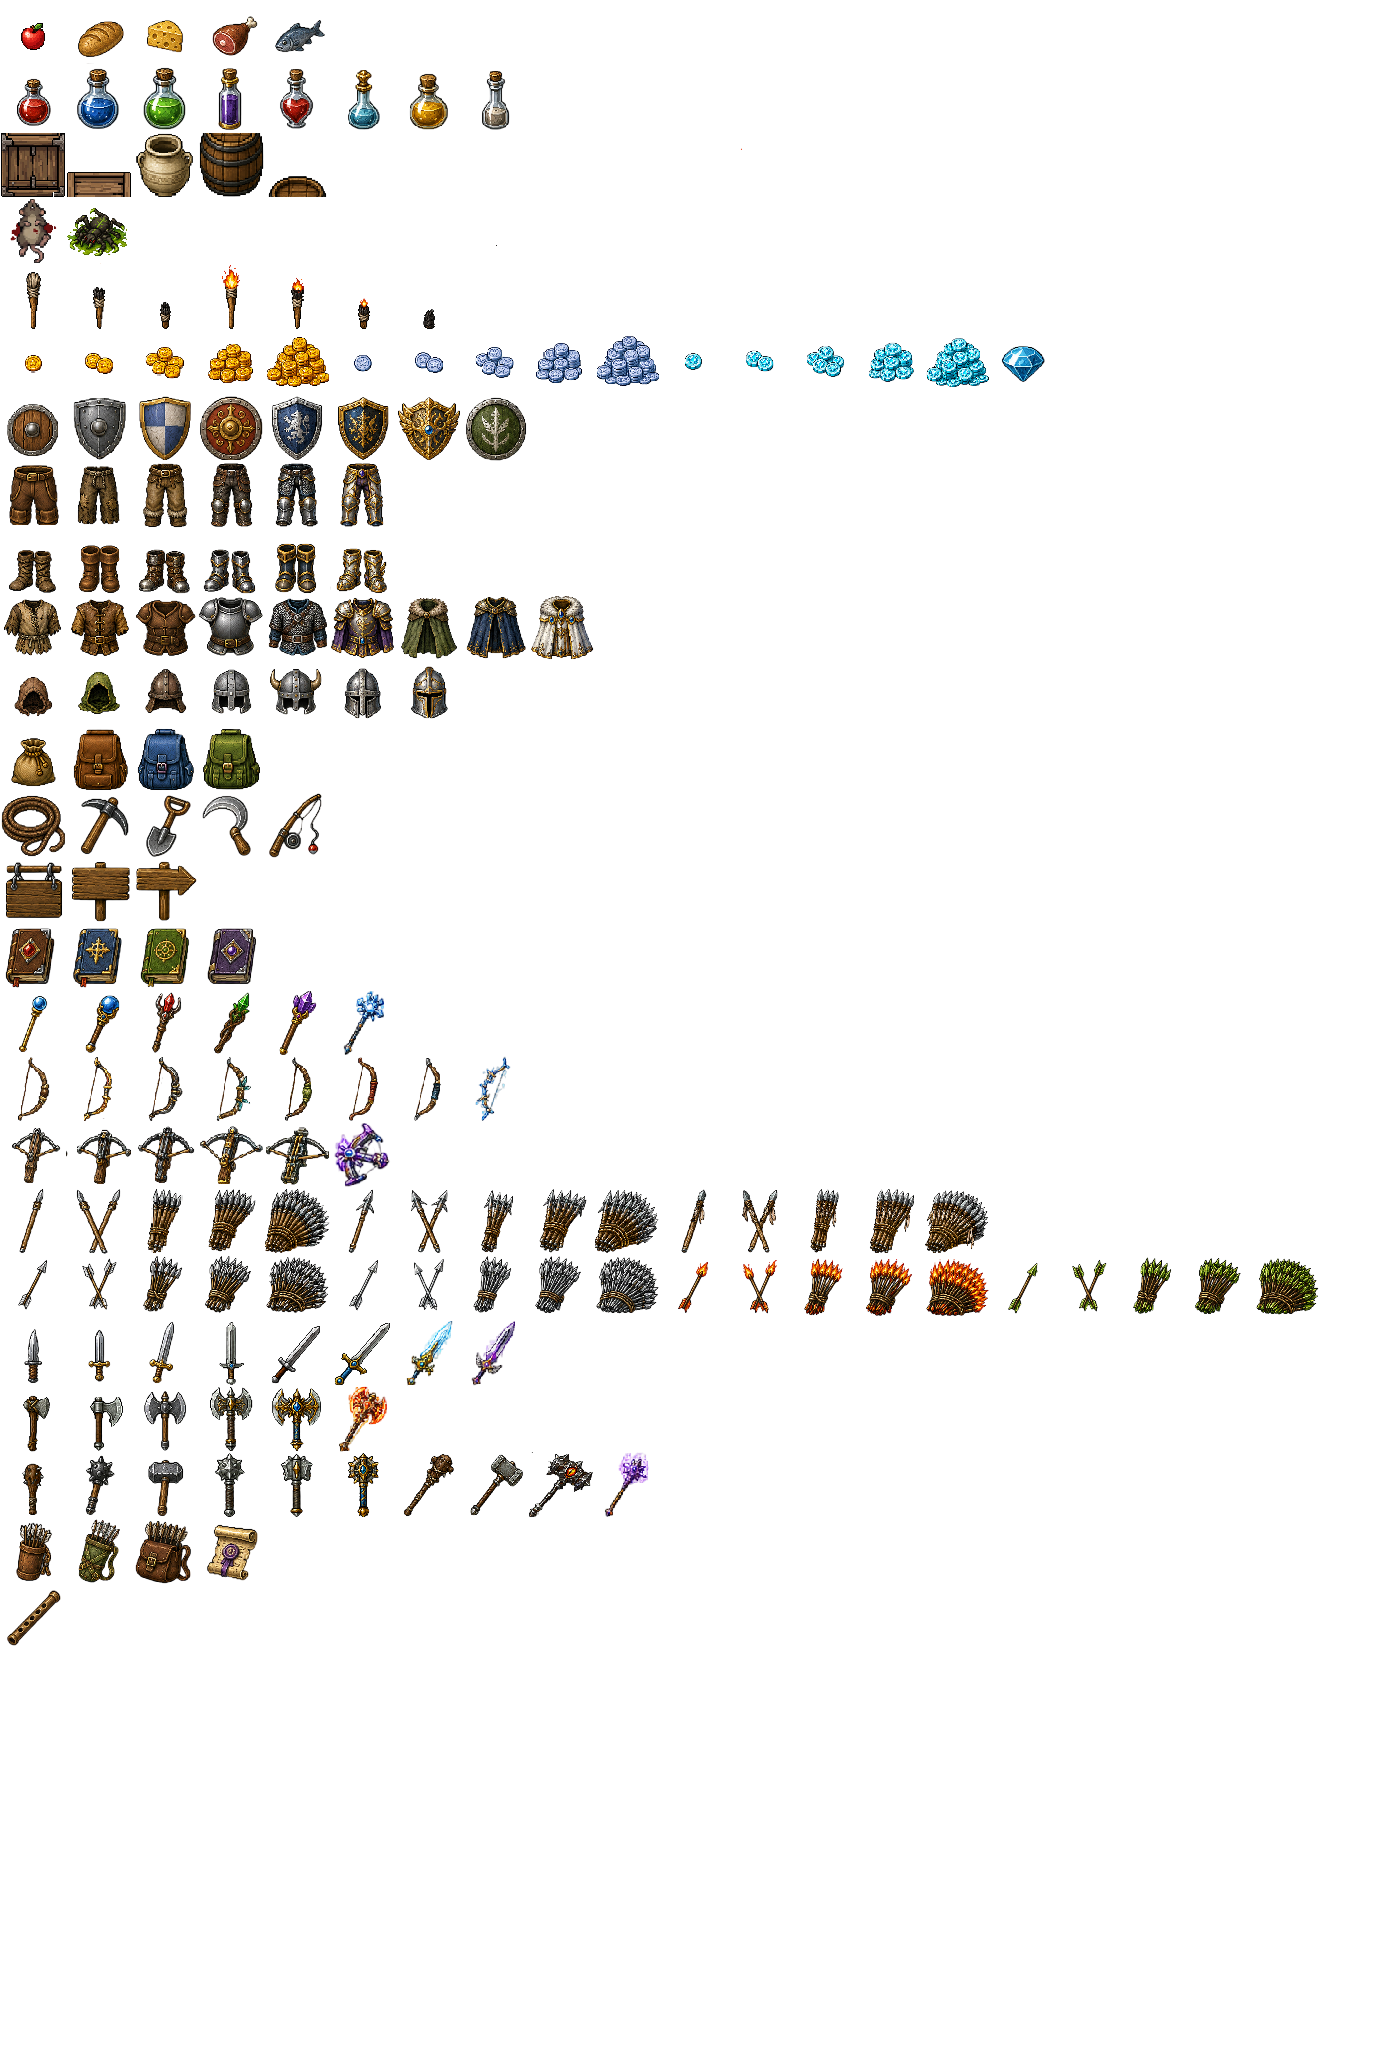
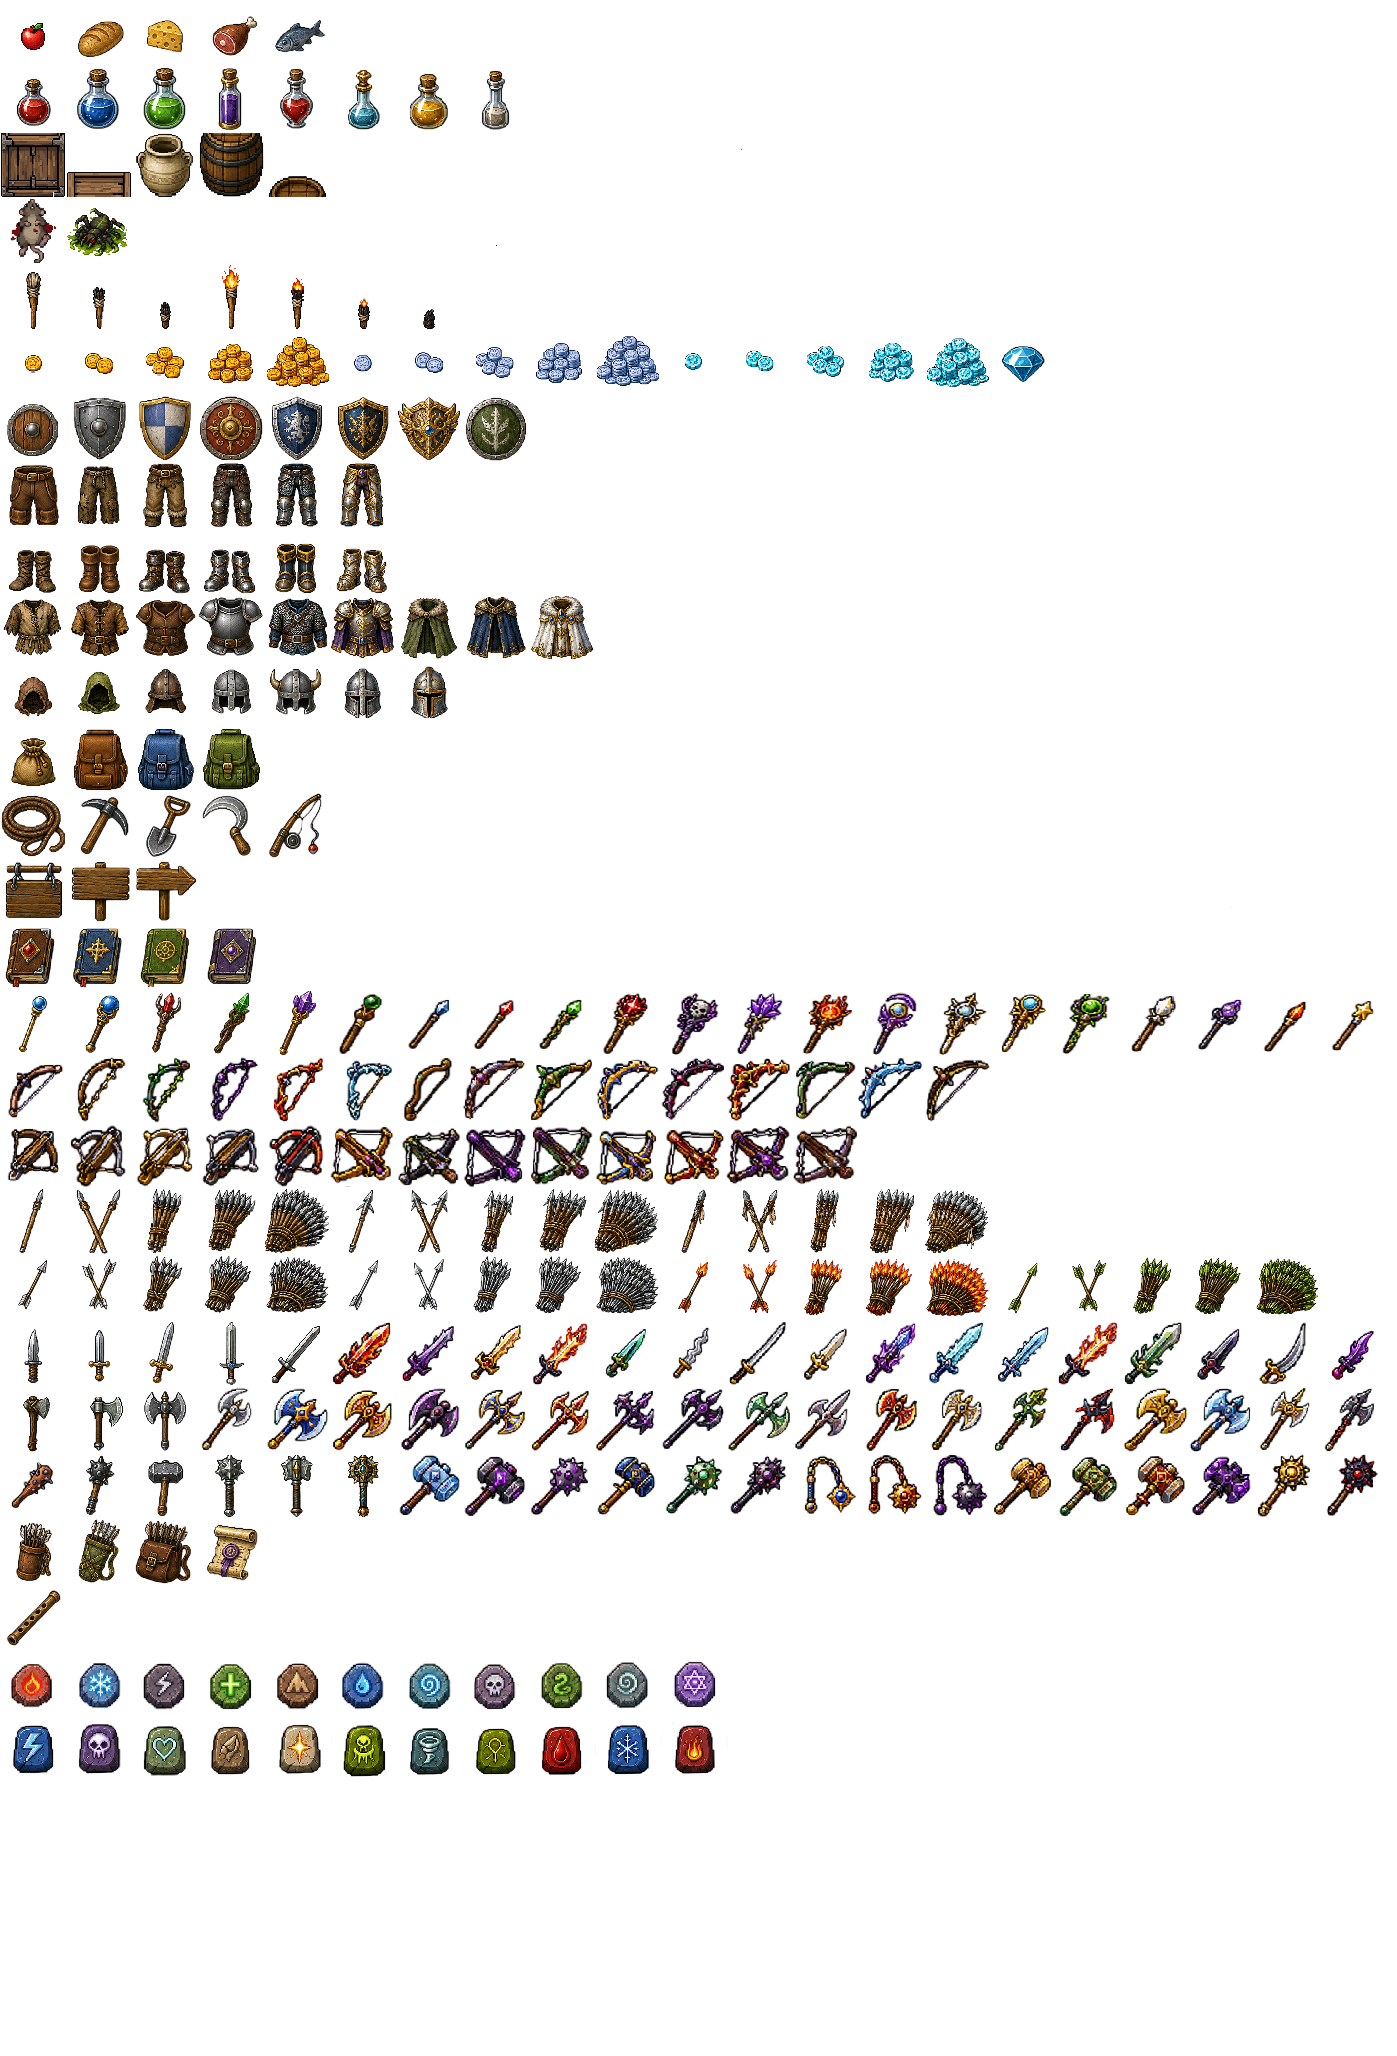
0.2936

diff --git a/js/main.js b/js/main.js
@@ -79,6 +79,14 @@ const mousePosition = {
   col: null,
   isInsideMap: false,
 };
+
+const itemUseState = {
+  isUsingItem: false,
+  source: null,
+  item: null,
+  useData: null,
+  startedAt: null,
+};
 //#endregion  -----  BASE - CONSTANTES ET VARIABLES  -----
 
 /* ==================================================== */
@@ -94,6 +102,10 @@ const itemsDatabase = {
     weight: 10,
     stackable: false,
     blockMovement: false,
+    use: {
+      mode: "direct",
+      action: "eat",
+    },
     render: {
       atlas: "items",
       parts: [
@@ -156,6 +168,12 @@ const itemsDatabase = {
           zOffset: 0,
         },
       ],
+    },
+    use: {
+      mode: "target",
+      action: "drinkPotion",
+      allowedTargets: ["player", "tile"],
+      range: 7,
     },
   },
   ratCorpse: {
@@ -329,6 +347,28 @@ const itemsDatabase = {
         {
           atlasCol: 0,
           atlasRow: 5,
+          offsetX: 0,
+          offsetY: 0,
+          zOffset: 0,
+        },
+      ],
+    },
+  },
+  fireRune: {
+    itemId: "fireRune",
+    name: "Fire rune",
+    desc: "A rune engraved with fire magic, ready to unleash a burning spell.",
+    type: "rune",
+    suffix: "a",
+    weight: 5,
+    stackable: false,
+    blockMovement: false,
+    render: {
+      atlas: "items",
+      parts: [
+        {
+          atlasCol: 0,
+          atlasRow: 25,
           offsetX: 0,
           offsetY: 0,
           zOffset: 0,
@@ -887,6 +927,14 @@ const getItemData = (itemId) => {
     console.log(`itemId: ${itemId} n'existe pas dans itemsDatabase`);
     return null;
   }
+};
+
+const getItemUseData = (item) => {
+  const itemData = getItemData(item.itemId);
+  if (!itemData || !itemData.use) {
+    return null;
+  }
+  return itemData.use;
 };
 
 /* ---------- ITEMS - VALIDATION GAMEPLAY ---------- */
@@ -2029,12 +2077,7 @@ const renderEquipmentSlots = () => {
     if (item) {
       equipmentElement.classList.add("equipment-slot-filled");
       equipmentElement.classList.remove("equipment-slot-empty");
-    }
-    if (!item) {
-      equipmentElement.classList.remove("equipment-slot-filled");
-      equipmentElement.classList.add("equipment-slot-empty");
-    }
-    if (isContainerItem(item)) {
+
       equipmentElement.addEventListener("contextmenu", (e) => {
         e.preventDefault();
         e.stopPropagation();
@@ -2045,8 +2088,16 @@ const renderEquipmentSlots = () => {
         if (!itemData) {
           return;
         }
-        openContainer(item, itemData.name, "equipment", null);
+        const source = {
+          type: "equipment",
+          slotName: slotName,
+        };
+        handleUseItemFromSource(source);
       });
+    }
+    if (!item) {
+      equipmentElement.classList.remove("equipment-slot-filled");
+      equipmentElement.classList.add("equipment-slot-empty");
     }
   });
 };
@@ -2107,57 +2158,42 @@ const renderContainerSlots = (containerBody, containerItem) => {
   if (!containerItem || !containerBody) {
     return;
   }
+
   containerBody.innerHTML = ``;
+
   const dataItem = getItemData(containerItem.itemId);
   if (!dataItem) {
     return null;
   }
   const slotGrid = document.createElement("div");
   slotGrid.classList.add("container-slot-grid");
-
   for (let i = 0; i < dataItem.capacity; i++) {
     const slotItem = containerItem.content[i];
     const slot = document.createElement("div");
     slot.classList.add("container-slot");
     slot.setAttribute("data-container-slot-index", i);
     slot.setAttribute("data-container-uid", containerItem.uid);
+
     if (slotItem) {
       renderItemIcon(slot, slotItem, 40);
-      if (isContainerItem(slotItem)) {
-        let parentWrapper = null;
+      slot.addEventListener("contextmenu", (e) => {
+        e.preventDefault();
+        e.stopPropagation();
+        if (shouldBlockContextMenuAction()) {
+          return;
+        }
+        const source = {
+          type: "container",
+          containerUid: containerItem.uid,
+          slotIndex: i,
+        };
 
-        openedContainers.forEach((container) => {
-          if (container.item.uid === containerItem.uid) {
-            parentWrapper = container;
-          }
-        });
-        slot.addEventListener("contextmenu", (e) => {
-          e.preventDefault();
-          e.stopPropagation();
-          if (shouldBlockContextMenuAction()) {
-            return;
-          }
-          const itemData = getItemData(slotItem.itemId);
-
-          if (itemData && parentWrapper) {
-            let alreadyOpen = false;
-            openedContainers.forEach((container) => {
-              if (container.item.uid === slotItem.uid) {
-                alreadyOpen = true;
-              }
-            });
-            if (alreadyOpen) {
-              openContainer(slotItem, itemData.name, "container", parentWrapper);
-              return;
-            }
-            closeContainer(parentWrapper.item);
-            openContainer(slotItem, itemData.name, "container", parentWrapper);
-          }
-        });
-      }
+        handleUseItemFromSource(source);
+      });
     }
     slotGrid.appendChild(slot);
   }
+
   containerBody.appendChild(slotGrid);
 };
 
@@ -2292,6 +2328,96 @@ const toggleContainerMinimized = (containerItem) => {
   openedContainer.isMinimized = !openedContainer.isMinimized;
   renderContainerDock();
 };
+
+/* ---------- ITEM USE - ETAT / ROUTAGE ET ACTIONS ---------- */
+
+const cancelItemUse = () => {
+  itemUseState.isUsingItem = false;
+  itemUseState.source = null;
+  itemUseState.item = null;
+  itemUseState.useData = null;
+  itemUseState.startedAt = null;
+};
+
+const startItemUse = (source, item, useData) => {
+  if (!source || !item || !useData) {
+    cancelItemUse();
+    return;
+  }
+  itemUseState.isUsingItem = true;
+  itemUseState.source = source;
+  itemUseState.item = item;
+  itemUseState.useData = useData;
+  itemUseState.startedAt = Date.now();
+};
+
+const isUsingItem = () => {
+  return itemUseState.isUsingItem;
+};
+
+const handleOpenContainerUse = (source, item, itemData, context = {}) => {
+  let parentWrapper = null;
+  if (source.type === "equipment") {
+    openContainer(item, itemData.name, "equipment", null);
+    return;
+  } else if (source.type === "world") {
+    openContainer(item, itemData.name, "world", null);
+    return;
+  } else if (source.type === "container") {
+    openedContainers.forEach((container) => {
+      if (container.item.uid === source.containerUid) {
+        parentWrapper = container;
+      }
+    });
+
+    if (!parentWrapper) {
+      return;
+    }
+    let alreadyOpen = false;
+    if (itemData) {
+      let alreadyOpen = false;
+
+      openedContainers.forEach((container) => {
+        if (container.item.uid === item.uid) {
+          alreadyOpen = true;
+        }
+      });
+
+      if (alreadyOpen) {
+        openContainer(item, itemData.name, "container", parentWrapper);
+        return;
+      }
+
+      closeContainer(parentWrapper.item);
+      openContainer(item, itemData.name, "container", parentWrapper);
+    }
+  }
+};
+
+const handleUseItemFromSource = (source) => {
+  const item = getDragSourceItem(source);
+  if (!item) {
+    return;
+  }
+  const itemData = getItemData(item.itemId);
+  if (!itemData) {
+    return;
+  }
+  const useData = getItemUseData(item);
+  if (!useData) {
+    if (isContainerItem(item)) {
+      handleOpenContainerUse(source, item, itemData);
+      return;
+    }
+  }
+  if (useData.mode === "direct") {
+    executeDirectItemUse(item);
+  }
+  if (useData.mode === "target") {
+    startItemUse(source, item, useData);
+  }
+};
+
 /* ----------UI - COMBAT MODE ---------- */
 
 const setPlayerCombatMode = (combatMode) => {
@@ -2310,7 +2436,6 @@ const refreshCombatModeButtons = () => {
     if (buttonStance === combatMode) {
       stanceButton.classList.add("stance-button-active");
     }
-    
   });
 };
 
@@ -2403,7 +2528,7 @@ const showLookFloatingText = (lookInfo) => {
   const isNearbyWorldItem = lookInfo.sourceType === "world" && isNearPlayer(lookInfo.target, 1);
 
   if (lookInfo.weight !== undefined && lookInfo.quantity && (isCarriedItem || isNearbyWorldItem)) {
-    offsetY = 150;
+    offsetY = 100;
     let suffixName = lookInfo.suffix;
     let name = lookInfo.name;
     let suffixWeight = "It weighs";
@@ -2414,7 +2539,7 @@ const showLookFloatingText = (lookInfo) => {
     }
     text = `You see ${suffixName} ${name}.\n${lookInfo.desc}\n${suffixWeight} ${lookInfo.weight.toFixed(1)} oz.`;
   } else {
-    offsetY = 130;
+    offsetY = 115;
     text = `You see ${lookInfo.suffix} ${lookInfo.name}.`;
   }
   showFloatingTextAboveTarget(text, offsetY, playerState);
@@ -2457,6 +2582,7 @@ const showFloatingTextAbovePlayer = (text, type) => {
     textElement.remove();
   }, 1300);
 };
+
 //#endregion  -----  UI  -----
 
 /* ==================================================== */
@@ -3896,9 +4022,7 @@ renderMap(gameMap);
 playerState.equipment.backpack = createItemInstance("bag", 1);
 playerState.equipment.backpack.content[0] = createItemInstance("apple", 1);
 playerState.equipment.backpack.content[1] = createItemInstance("goldCoin", 1);
-playerState.equipment.backpack.content[2] = createItemInstance("woodenShield", 1);
-playerState.equipment.backpack.content[3] = createItemInstance("sword", 1);
-playerState.equipment.backpack.content[4] = createItemInstance("leatherArmor", 1);
+playerState.equipment.backpack.content[2] = createItemInstance("fireRune", 1);
 
 updatePlayerCarriedWeight();
 updatePlayerInventory();

diff --git a/css/style.css b/css/style.css
@@ -297,10 +297,9 @@ main {
 
 .floating-text-wrapper {
   position: absolute;
-  transform: translateX(-50%);
+  transform: translate(-50%, -100%);
   z-index: 9999;
   pointer-events: none;
-  animation: floating-text-animation 2s ease-out forwards;
 }
 
 .floating-text {
@@ -318,27 +317,29 @@ main {
     -1px 1px 0 #000,
     1px -1px 0 #000,
     -1px -1px 0 #000;
+
+  animation: floating-text-animation 2s ease-out forwards;
 }
 
 @keyframes floating-text-animation {
   0% {
     opacity: 0;
-    transform: translateX(-50%) translateY(4px);
+    transform:  translateY(4px);
   }
 
   12% {
     opacity: 1;
-    transform: translateX(-50%) translateY(0);
+    transform:  translateY(0);
   }
 
   80% {
     opacity: 1;
-    transform: translateX(-50%) translateY(0);
+    transform:  translateY(0);
   }
 
   100% {
     opacity: 0;
-    transform: translateX(-50%) translateY(-8px);
+    transform:  translateY(-8px);
   }
 }
 
@@ -454,7 +455,6 @@ main {
   overflow: hidden;
   outline: 2px solid rgba(145, 145, 145, 0.5);
   border-radius: 1px;
-  
 }
 
 .equipment-cap-slot {